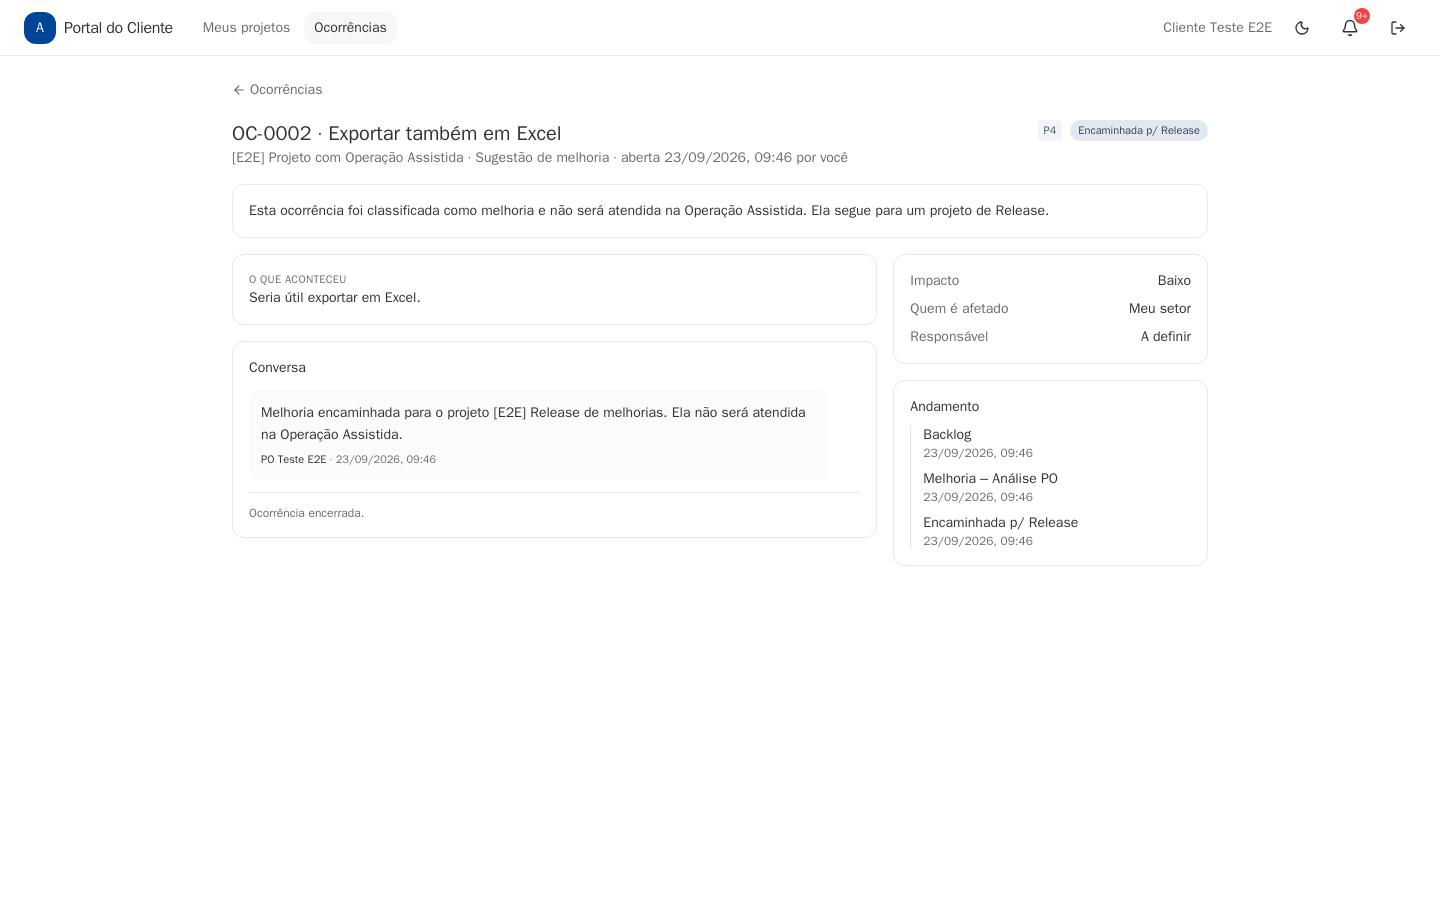
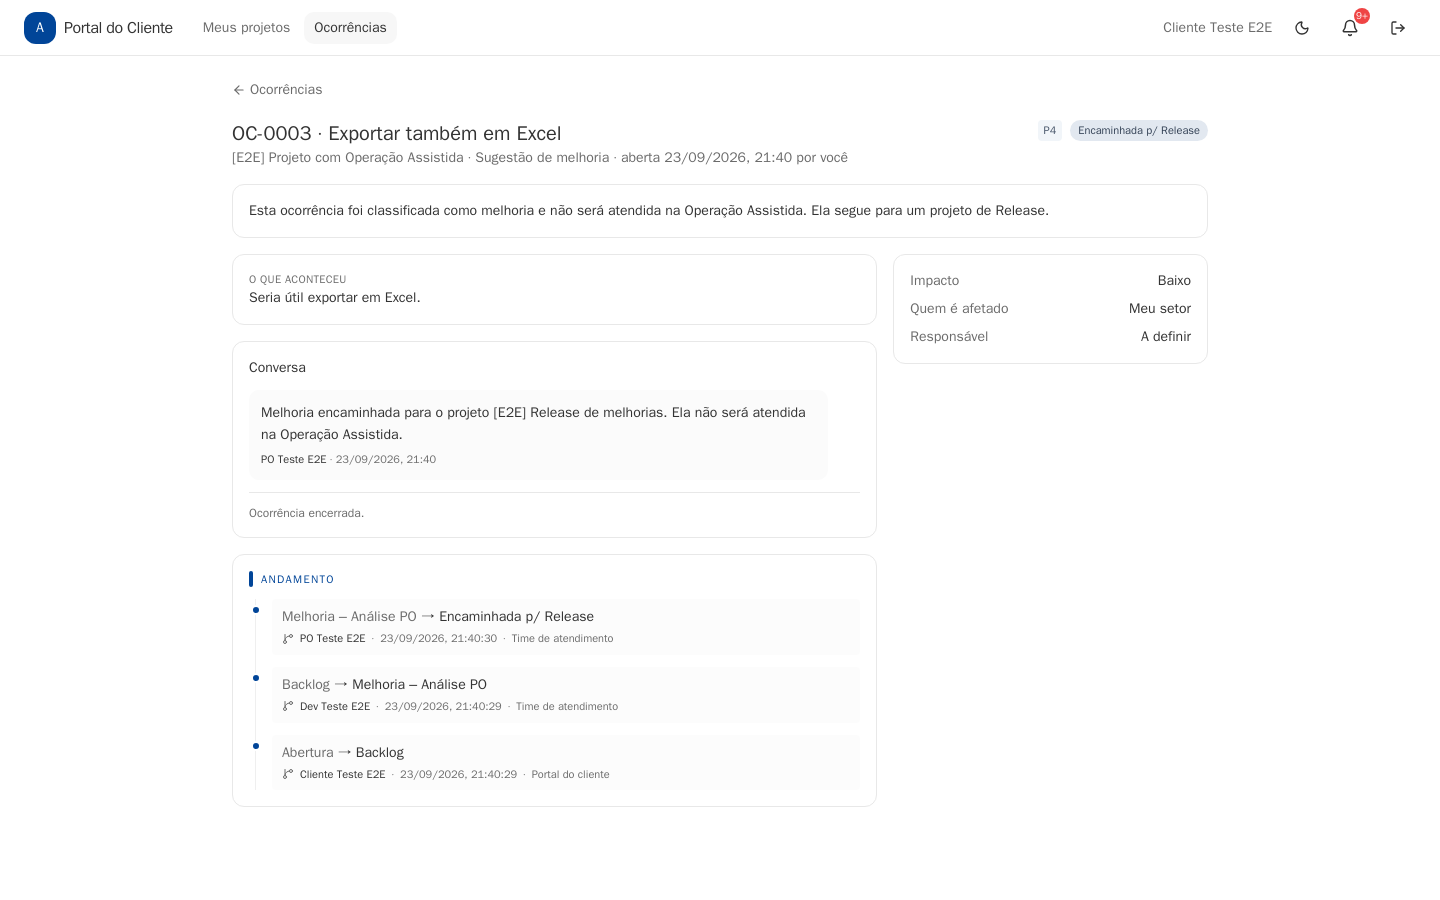
feat(portal): andamento da ocorrência no formato da timeline de raias
O "Andamento" do detalhe da ocorrência no Portal segue o visual da
Timeline de raias do drawer: mais recente primeiro, de → para, quem moveu,
data/hora e origem (Portal do cliente / Time de atendimento / Automático),
na coluna principal abaixo da conversa. A API do detalhe passa a mandar
from_stage_name, moved_by_name e source no histórico. No drawer, a origem
"client" aparece como "Portal do cliente".

E2E da OA: 76/76 + 23/23.

diff --git a/frontend/src/modules/portal/ClientOccurrenceDetailPage.tsx b/frontend/src/modules/portal/ClientOccurrenceDetailPage.tsx
@@ -1,6 +1,6 @@
 import { useEffect, useRef, useState } from "react"
 import { Link, useParams } from "react-router-dom"
-import { ArrowLeft, CheckCircle2, Loader2, MessageSquareReply, Send, XCircle } from "lucide-react"
+import { ArrowLeft, CheckCircle2, GitBranch, Loader2, MessageSquareReply, Send, XCircle } from "lucide-react"
 
 import {
   OCCURRENCE_ABRANGENCIA_LABEL,
@@ -17,7 +17,15 @@ import { Skeleton } from "@/components/ui/skeleton"
 import { Alert, AlertDescription } from "@/components/ui/alert"
 import { CommentBody } from "@/modules/projetos/CommentComposer"
 import { toast } from "@/lib/toast"
+import { formatApiDateTime } from "@/lib/utils"
 import { PriorityBadge, StageBadge, apiErrorDetail, fmtDateTime } from "@/modules/portal/occurrenceUi"
+
+/** Origem do movimento na visão do cliente (sem o jargão interno do kanban). */
+const PORTAL_SOURCE_LABELS: Record<string, string> = {
+  client: "Portal do cliente",
+  system: "Automático",
+  automation: "Automático",
+}
 
 function Field({ label, value }: { label: string; value: string | null | undefined }) {
   if (!value) return null
@@ -286,6 +294,40 @@ export default function ClientOccurrenceDetailPage() {
               </p>
             )}
           </div>
+
+          {/* Timeline de raias no formato do drawer do card: mais recente primeiro, de → para, quem, quando e origem. */}
+          <div className="space-y-3 rounded-lg border p-4">
+            <div className="flex items-center gap-2">
+              <span className="h-4 w-1 rounded-full bg-primary" />
+              <h2 className="text-[11px] font-bold uppercase tracking-[0.12em] text-primary">Andamento</h2>
+            </div>
+            {occ.history.length === 0 ? (
+              <p className="text-xs text-muted-foreground">Nenhum movimento registrado ainda.</p>
+            ) : (
+              <ol className="relative ms-1.5 border-s border-border/70 ps-4">
+                {[...occ.history].reverse().map((h, i) => (
+                  <li key={i} className="mb-3 last:mb-0">
+                    <span className="absolute -start-[5px] mt-1.5 h-2.5 w-2.5 rounded-full border-2 border-background bg-primary" />
+                    <div className="rounded bg-muted/40 px-2.5 py-2">
+                      <p className="text-sm font-medium leading-snug">
+                        <span className="text-muted-foreground">{h.from_stage_name ?? "Abertura"}</span>
+                        {" → "}
+                        <span>{h.stage_name ?? "—"}</span>
+                      </p>
+                      <p className="mt-1 flex flex-wrap items-center gap-x-1.5 text-[11px] text-muted-foreground">
+                        <GitBranch className="inline h-3 w-3 shrink-0" />
+                        <span className="font-medium text-foreground">{h.moved_by_name ?? "Sistema"}</span>
+                        <span>·</span>
+                        <span>{formatApiDateTime(h.moved_at)}</span>
+                        <span>·</span>
+                        <span>{PORTAL_SOURCE_LABELS[h.source ?? ""] ?? "Time de atendimento"}</span>
+                      </p>
+                    </div>
+                  </li>
+                ))}
+              </ol>
+            )}
+          </div>
         </div>
 
         <div className="space-y-4">
@@ -302,17 +344,6 @@ export default function ClientOccurrenceDetailPage() {
               <span className="text-muted-foreground">Responsável</span>
               <span>{occ.assignee_name ?? "A definir"}</span>
             </div>
-          </div>
-          <div className="rounded-lg border p-4">
-            <h2 className="mb-2 text-sm font-semibold">Andamento</h2>
-            <ol className="space-y-2 border-l pl-3">
-              {occ.history.map((h, i) => (
-                <li key={i} className="text-sm">
-                  <div className="font-medium">{h.stage_name ?? "—"}</div>
-                  <div className="text-xs text-muted-foreground">{fmtDateTime(h.moved_at)}</div>
-                </li>
-              ))}
-            </ol>
           </div>
         </div>
       </div>

diff --git a/frontend/src/api/clientes.ts b/frontend/src/api/clientes.ts
@@ -179,7 +179,13 @@ export interface OccurrenceDetail extends OccurrenceSummary {
   assisted_ops_dev_names?: string[]
   can_assume: boolean
   comments: OccurrenceComment[]
-  history: Array<{ stage_name: string | null; moved_at: string | null }>
+  history: Array<{
+    stage_name: string | null
+    from_stage_name?: string | null
+    moved_at: string | null
+    moved_by_name?: string | null
+    source?: string | null
+  }>
 }
 
 export interface OccurrenceCreate {

diff --git a/frontend/src/api/projetos.ts b/frontend/src/api/projetos.ts
@@ -248,6 +248,7 @@ export const STATUS_HISTORY_SOURCE_LABELS: Record<string, string> = {
   procurement: "Contratação",
   cascade: "Cascata",
   funnel_transition: "Troca de kanban",
+  client: "Portal do cliente",
 }
 
 export interface ProjectDemandTypeFunnelRef {

diff --git a/backend/app/modules/projetos/assisted_ops.py b/backend/app/modules/projetos/assisted_ops.py
@@ -614,6 +614,13 @@ class AssistedOpsService:
             .where(ProjectTaskStatusHistory.task_id == task.id)
             .order_by(ProjectTaskStatusHistory.moved_at.asc())
         )).scalars().all())
+        mover_ids = {h.moved_by for h in hist if h.moved_by} - set(authors)
+        if mover_ids:
+            authors.update({
+                u.id: u.full_name for u in (await db.execute(
+                    select(User).where(User.id.in_(mover_ids))
+                )).scalars().all()
+            })
 
         # Card da ocorrência (time): do projeto, só o PO responsável e o produto vinculado.
         po_name = product_name = None
@@ -672,8 +679,15 @@ class AssistedOpsService:
                 for c in comments
                 if not (for_client and c.author_id is None)
             ],
+            # Timeline de raias (mesmo formato do drawer do card): de → para, quem moveu, quando e origem.
             history=[
-                {"stage_name": h.to_status_name, "moved_at": h.moved_at.isoformat() if h.moved_at else None}
+                {
+                    "stage_name": h.to_status_name,
+                    "from_stage_name": h.from_status_name,
+                    "moved_at": h.moved_at.isoformat() if h.moved_at else None,
+                    "moved_by_name": authors.get(h.moved_by) if h.moved_by else None,
+                    "source": h.source,
+                }
                 for h in hist
             ],
         )
